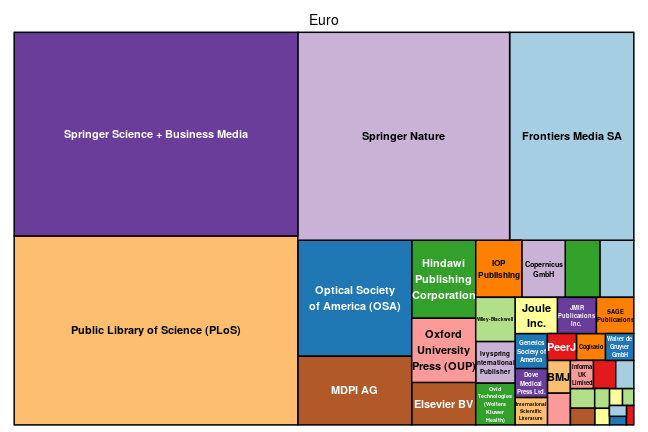
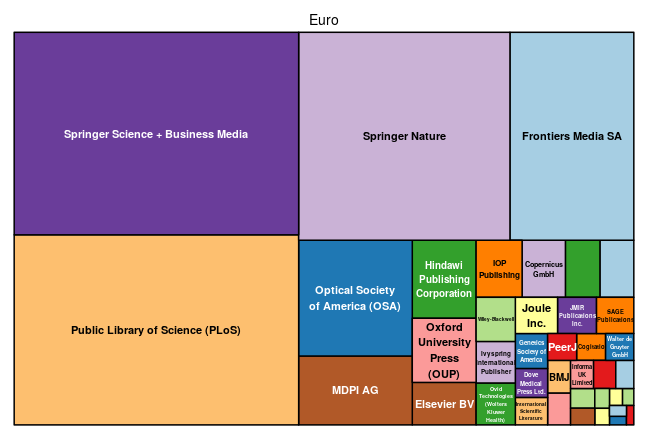
update: muenster apc data 2018

diff --git a/_posts/2019-02-22-muenster.md b/_posts/2019-02-22-muenster.md
@@ -22,7 +22,7 @@ Contact person is [Viola Voß](mailto:openaccess@uni-muenster.de).
 
 
 
-The new data set covers publication fees for 84 articles. Total expenditure amounts to 126 336€ and the average fee is 1 504€.
+The new data set covers publication fees for 85 articles. Total expenditure amounts to 127 851€ and the average fee is 1 504€.
 
 The following table shows the payments Münster University Library has made to publishers in 2018.
 
@@ -30,7 +30,7 @@ The following table shows the payments Münster University Library has made to p
 |                                           | Articles| Fees paid in EURO| Mean Fee paid|
 |:------------------------------------------|--------:|-----------------:|-------------:|
 |Springer Nature                            |       26|             42366|          1629|
-|Public Library of Science (PLoS)           |       15|             22584|          1506|
+|Public Library of Science (PLoS)           |       16|             24099|          1506|
 |Frontiers Media SA                         |       12|             20568|          1714|
 |MDPI AG                                    |        6|              8001|          1334|
 |Elsevier BV                                |        3|              3155|          1052|
